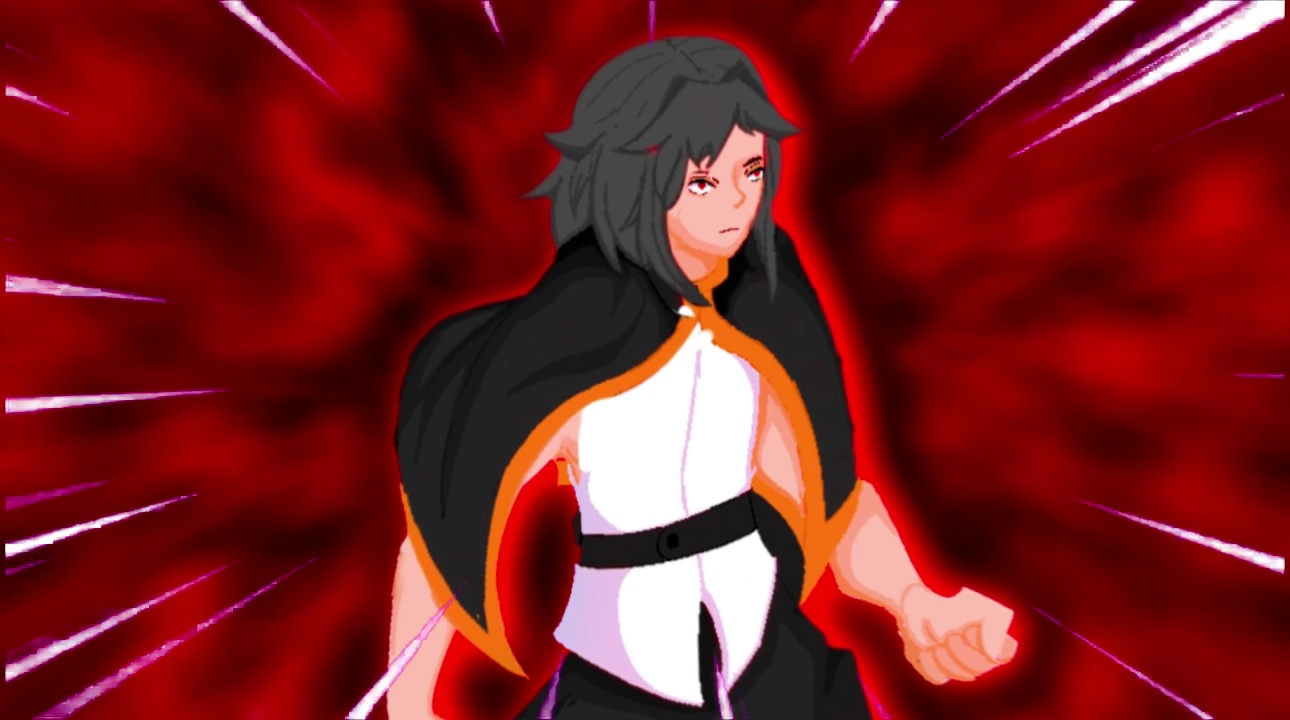
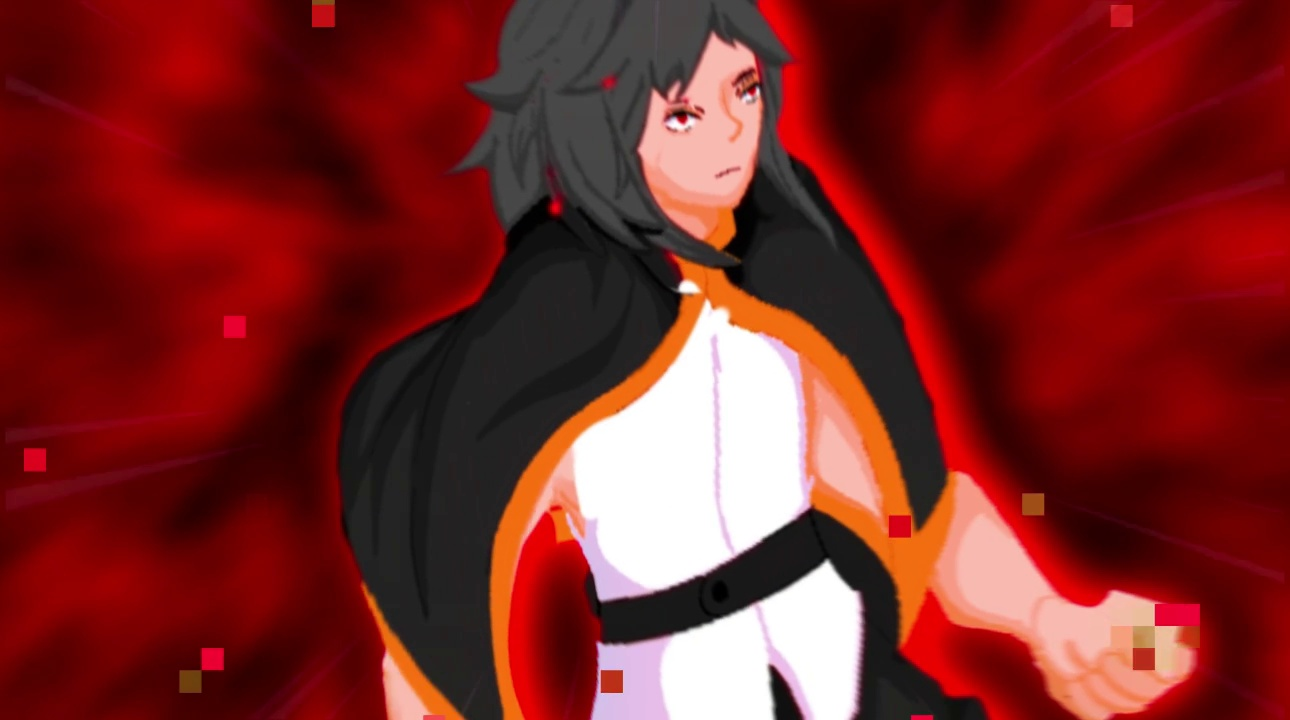
refactor dan menambahkan ultimate

diff --git a/scripts/scenes/battle_scene.py b/scripts/scenes/battle_scene.py
@@ -1,6 +1,6 @@
 import pygame
+import time
 from scenes.base_scene import BaseScene
-from scenes.story_transition_scene import StoryTransitionScene
 
 
 class BattleScene(BaseScene):
@@ -28,6 +28,14 @@ class BattleScene(BaseScene):
             self.frame_margin,
             self.screen_height - 170,
         )
+
+        # Ultimate animation properties
+        self.is_showing_ultimate = False
+        self.ultimate_frame = 0
+        self.ultimate_frames = []
+        self.ultimate_start_time = 0
+        self.ultimate_duration = 1.0  # 1 second total for all frames
+        self._load_ultimate_frames()
 
         self.enemy_frame_size = (150, 150)
         self.enemy_frame_pos = (
@@ -107,6 +115,11 @@ class BattleScene(BaseScene):
                     self.center_enemy_image, self.center_enemy_size
                 )
 
+    def _load_ultimate_frames(self):
+        # Ini dibiarkan kosong karena frame akan diambil langsung dari Ultimate
+        # saat dibutuhkan, bukan di-preload di constructor
+        self.ultimate_frames = []
+
     def handle_events(self):
         for event in pygame.event.get():
             if event.type == pygame.QUIT:
@@ -185,6 +198,27 @@ class BattleScene(BaseScene):
         if self.game.player.ultimate_cooldown <= 0:
             damage = self.game.player.use_ultimate()
             if damage > 0:
+                # Dapatkan frame-frame dari objek Ultimate player
+                ultimate_frame_paths = self.game.player.current_ultimate.get_frames()
+
+                # Load dan scale frame-frame
+                self.ultimate_frames = []
+                for frame_path in ultimate_frame_paths:
+                    img = pygame.image.load(frame_path)
+                    img = pygame.transform.scale(
+                        img, (self.screen_width, self.screen_height)
+                    )
+                    self.ultimate_frames.append(img)
+
+                # Start the ultimate animation
+                self.is_showing_ultimate = True
+                self.ultimate_frame = 0
+                self.ultimate_start_time = time.time()
+                self.ultimate_duration = (
+                    self.game.player.current_ultimate.animation_duration
+                )
+
+                # Process the damage after animation completes in update()
                 self.enemy.hp -= damage
                 ultimate_name = self.game.player.current_ultimate.name
                 self.add_to_battle_log(
@@ -219,6 +253,21 @@ class BattleScene(BaseScene):
     def update(self):
         self.game.player.update()
 
+        # Update ultimate animation if it's active
+        if self.is_showing_ultimate:
+            current_time = time.time()
+            elapsed = current_time - self.ultimate_start_time
+
+            if elapsed >= self.ultimate_duration:
+                # Animation is complete
+                self.is_showing_ultimate = False
+            else:
+                # Calculate which frame to show based on elapsed time
+                frame_duration = self.ultimate_duration / len(self.ultimate_frames)
+                self.ultimate_frame = min(
+                    int(elapsed / frame_duration), len(self.ultimate_frames) - 1
+                )
+
         if self.done:
             return
 
@@ -231,7 +280,8 @@ class BattleScene(BaseScene):
                     self.exploration_scene.current_floor.set_turn(self.turn)
 
                 if self.exploration_scene.current_floor_index == 2:
-                    self.show_ending()
+                    # Panggil metode show_ending dari exploration_scene
+                    self.exploration_scene.show_ending()
                 else:
                     self.exploration_scene.on_battle_complete(enemy_defeated=True)
                     self.game.scene_manager.go_to(self.exploration_scene)
@@ -245,52 +295,13 @@ class BattleScene(BaseScene):
             self.done = True
             self.game.quit()
 
-    def show_ending(self):
-        ending_story = [
-            "Naga yang mengerikan itu akhirnya jatuh ke tanah dengan dentuman keras.",
-            "Kamu berdiri terengah-engah, nyaris tidak percaya bahwa kamu berhasil mengalahkannya.",
-            "",
-            "Tiba-tiba, dinding dungeon mulai bergetar dan retakan mulai muncul di dinding-dinding tua.",
-            "Cahaya keemasan menembus dari celah-celah retakan di langit-langit.",
-            "",
-            "Suara misterius terdengar bergema dalam kepalamu:",
-            '"Penakluk Dungeon ITERA, kau telah membersihkan kegelapan yang mengancam kampus."',
-            "",
-            "Kamu menutup mata, silau oleh cahaya yang semakin terang.",
-            "Sensasi hangat menjalar ke seluruh tubuhmu, seolah-olah kamu melayang...",
-            "",
-            "Ketika kamu membuka mata kembali, kamu terkejut menemukan dirimu...",
-            "...terbaring di bawah pohon rindang di taman kampus ITERA.",
-            "",
-            "Beberapa mahasiswa berlalu-lalang dan dosen mengajar seperti biasa.",
-            "Seolah tidak terjadi apa-apa. Seolah petualanganmu hanyalah mimpi.",
-            "",
-            "Kamu melihat jam tanganmu - hanya 10 menit berlalu sejak orientasi kampus dimulai.",
-            "",
-            "Di sampingmu, kamu menemukan sebuah medali emas dengan ukiran naga.",
-            "Bukti bahwa semua itu bukan sekadar mimpi belaka.",
-            "",
-            "Satu hal yang pasti: pengalamanmu di Dungeon ITERA telah mengubahmu.",
-            "Kamu bukan lagi mahasiswa biasa...",
-            "",
-            "Kamu adalah Penakluk Dungeon ITERA, Pembebas Kegelapan, dan Pahlawan Tersembunyi kampus.",
-            "",
-            "TAMAT",
-            "",
-            "Terima kasih telah bermain!",
-        ]
-
-        from scenes.mainmenu_scene import MainMenuScene
-
-        main_menu = MainMenuScene(self.game)
-
-        ending_scene = StoryTransitionScene(
-            self.game, ending_story, main_menu, delay_per_line=3.0
-        )
-
-        self.game.scene_manager.go_to(ending_scene)
-
     def render(self):
+        # If ultimate animation is showing, display it over everything
+        if self.is_showing_ultimate and self.ultimate_frame < len(self.ultimate_frames):
+            self.game.screen.blit(self.ultimate_frames[self.ultimate_frame], (0, 0))
+            return
+
+        # Regular render code continues if not showing ultimate
         self.game.screen.fill((0, 0, 0))
 
         enemy_center_pos = (self.screen_width // 2, self.screen_height // 3)

diff --git a/scripts/skill.py b/scripts/skill.py
@@ -1,3 +1,6 @@
+import os
+
+
 class Skill:
     def __init__(self, name, damage=0, cooldown=3.0, description="", unlocked=False):
         self.name = name
@@ -31,6 +34,15 @@ class Ultimate:
         self.cooldown = cooldown
         self.description = description
         self.cooldown_remaining = 0
+        self.frames = []
+        self.animation_duration = 1.0
+        self._load_frames()
+
+    def _load_frames(self):
+        pass
+
+    def get_frames(self):
+        return self.frames
 
     def use(self):
         if self.cooldown_remaining <= 0:
@@ -43,25 +55,94 @@ class Ultimate:
             self.cooldown_remaining -= delta_time
 
 
+class FireUltimate(Ultimate):
+    def __init__(self, damage=30, cooldown=5.0):
+        super().__init__(
+            "Meteor", damage, cooldown, "Massive fire explosion from the sky"
+        )
+
+    def _load_frames(self):
+        self.frames = []
+        base_path = "scripts/assets/Main Character/Ulti"
+        frames_files = [
+            "ulti-frame-1.jpg",
+            "ulti-frame-2.jpg",
+            "ulti-frame-3.jpg",
+            "ulti-frame-4.jpg",
+            "ulti-frame-5.jpg",
+            "ulti-frame-6.jpg",
+        ]
+        for frame_file in frames_files:
+            frame_path = os.path.join(base_path, frame_file)
+            if os.path.exists(frame_path):
+                self.frames.append(frame_path)
+
+
+class IceUltimate(Ultimate):
+    def __init__(self, damage=35, cooldown=5.0):
+        super().__init__(
+            "Blizzard", damage, cooldown, "Freezes all enemies in the area"
+        )
+
+    def _load_frames(self):
+        self.frames = []
+        base_path = "scripts/assets/Main Character/Ulti"
+        frames_files = [
+            "ulti-frame-1.jpg",
+            "ulti-frame-2.jpg",
+            "ulti-frame-3.jpg",
+            "ulti-frame-4.jpg",
+            "ulti-frame-5.jpg",
+            "ulti-frame-6.jpg",
+        ]
+        for frame_file in frames_files:
+            frame_path = os.path.join(base_path, frame_file)
+            if os.path.exists(frame_path):
+                self.frames.append(frame_path)
+
+
+class LightningUltimate(Ultimate):
+    def __init__(self, damage=40, cooldown=5.0):
+        super().__init__(
+            "Thunderstorm", damage, cooldown, "Chain lightning that hits multiple times"
+        )
+
+    def _load_frames(self):
+        self.frames = []
+        base_path = "scripts/assets/Main Character/Ulti"
+        frames_files = [
+            "ulti-frame-1.jpg",
+            "ulti-frame-2.jpg",
+            "ulti-frame-3.jpg",
+            "ulti-frame-4.jpg",
+            "ulti-frame-5.jpg",
+            "ulti-frame-6.jpg",
+        ]
+        for frame_file in frames_files:
+            frame_path = os.path.join(base_path, frame_file)
+            if os.path.exists(frame_path):
+                self.frames.append(frame_path)
+
+
 class SkillTree:
     def __init__(self):
         self.skills = [
             Skill(
                 "Power Strike",
                 damage=50,
-                cooldown=3.0,
+                cooldown=10.0,
                 description="Deal heavy damage.",
             ),
             Skill(
                 "Swift Step",
                 damage=0,
-                cooldown=2.0,
+                cooldown=20.0,
                 description="Increase speed for 3 turns.",
             ),
             Skill(
                 "Iron Guard",
                 damage=0,
-                cooldown=4.0,
+                cooldown=20.0,
                 description="Increase defense temporarily.",
             ),
         ]

diff --git a/scripts/scenes/exploration_scene.py b/scripts/scenes/exploration_scene.py
@@ -279,3 +279,48 @@ class ExplorationScene(BaseScene):
         self.current_floor.in_battle = False
 
         self.game.player.hp = 100
+
+    def show_ending(self):
+        ending_story = [
+            "Naga yang mengerikan itu akhirnya jatuh ke tanah dengan dentuman keras.",
+            "Kamu berdiri terengah-engah, nyaris tidak percaya bahwa kamu berhasil mengalahkannya.",
+            "",
+            "Tiba-tiba, dinding dungeon mulai bergetar dan retakan mulai muncul di dinding-dinding tua.",
+            "Cahaya keemasan menembus dari celah-celah retakan di langit-langit.",
+            "",
+            "Suara misterius terdengar bergema dalam kepalamu:",
+            '"Penakluk Dungeon ITERA, kau telah membersihkan kegelapan yang mengancam kampus."',
+            "",
+            "Kamu menutup mata, silau oleh cahaya yang semakin terang.",
+            "Sensasi hangat menjalar ke seluruh tubuhmu, seolah-olah kamu melayang...",
+            "",
+            "Ketika kamu membuka mata kembali, kamu terkejut menemukan dirimu...",
+            "...terbaring di bawah pohon rindang di taman kampus ITERA.",
+            "",
+            "Beberapa mahasiswa berlalu-lalang dan dosen mengajar seperti biasa.",
+            "Seolah tidak terjadi apa-apa. Seolah petualanganmu hanyalah mimpi.",
+            "",
+            "Kamu melihat jam tanganmu - hanya 10 menit berlalu sejak orientasi kampus dimulai.",
+            "",
+            "Di sampingmu, kamu menemukan sebuah medali emas dengan ukiran naga.",
+            "Bukti bahwa semua itu bukan sekadar mimpi belaka.",
+            "",
+            "Satu hal yang pasti: pengalamanmu di Dungeon ITERA telah mengubahmu.",
+            "Kamu bukan lagi mahasiswa biasa...",
+            "",
+            "Kamu adalah Penakluk Dungeon ITERA, Pembebas Kegelapan, dan Pahlawan Tersembunyi kampus.",
+            "",
+            "TAMAT",
+            "",
+            "Terima kasih telah bermain!",
+        ]
+
+        from scenes.mainmenu_scene import MainMenuScene
+
+        main_menu = MainMenuScene(self.game)
+
+        ending_scene = StoryTransitionScene(
+            self.game, ending_story, main_menu, delay_per_line=3.0
+        )
+
+        self.game.scene_manager.go_to(ending_scene)

diff --git a/scripts/player.py b/scripts/player.py
@@ -1,5 +1,11 @@
 import pygame
-from skill import SkillTree, Skill, Ultimate
+from skill import (
+    SkillTree,
+    Skill,
+    FireUltimate,
+    IceUltimate,
+    LightningUltimate,
+)
 
 
 class Player:
@@ -112,11 +118,9 @@ class Player:
                 cooldown=3.0,
                 description="Fire damage that burns the enemy",
             )
-            self.current_ultimate = Ultimate(
-                "Meteor",
+            self.current_ultimate = FireUltimate(
                 damage=30,
                 cooldown=5.0,
-                description="Massive fire explosion from the sky",
             )
         elif floor_index == 1:
             self.current_skill = Skill(
@@ -125,11 +129,9 @@ class Player:
                 cooldown=3.0,
                 description="Ice damage with slowdown effect",
             )
-            self.current_ultimate = Ultimate(
-                "Blizzard",
+            self.current_ultimate = IceUltimate(
                 damage=35,
                 cooldown=5.0,
-                description="Freezes all enemies in the area",
             )
         elif floor_index == 2:
             self.current_skill = Skill(
@@ -138,11 +140,9 @@ class Player:
                 cooldown=3.0,
                 description="Electric damage that paralyzes",
             )
-            self.current_ultimate = Ultimate(
-                "Thunderstorm",
+            self.current_ultimate = LightningUltimate(
                 damage=40,
                 cooldown=5.0,
-                description="Chain lightning that hits multiple times",
             )
 
     @property

diff --git a/scripts/scenes/outdoor_scene.py b/scripts/scenes/outdoor_scene.py
@@ -2,12 +2,13 @@ import pygame
 from scenes.base_scene import BaseScene
 from scenes.story_transition_scene import StoryTransitionScene
 from scenes.exploration_scene import ExplorationScene
+from utils.font_helper import FontHelper
 
 
 class OutdoorScene(BaseScene):
     def __init__(self, game):
         super().__init__(game)
-        self.font = pygame.font.SysFont(None, 24)
+        self.font = FontHelper.getFont("Minecraft", 24)
         self.player_pos = [100, 450]
         self.player_speed = 5
         self.entrance_pos = [700, 440]
@@ -56,6 +57,7 @@ class OutdoorScene(BaseScene):
             self.entrance_size[0],
             self.entrance_size[1],
         )
+
         self.entrance_message_visible = player_rect.colliderect(entrance_rect)
         if self.entrance_message_visible and keys[pygame.K_RETURN]:
             self.enter_dungeon()
